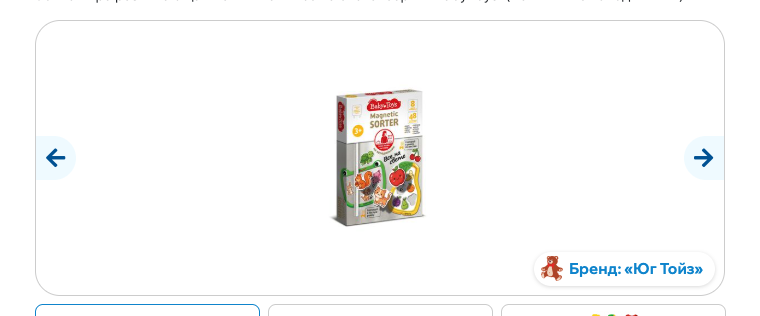
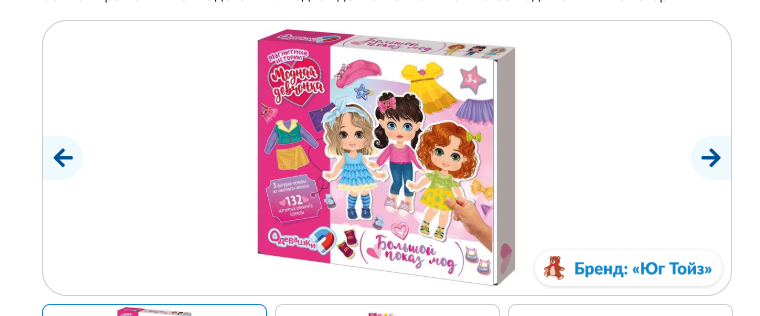
ЮгТойз: плашка «Бренд: Юг Тойз» картинкой 1:1 из макета, исправления после проверки
- плашка = вырез из макета (шрифт Lato 2 на сайте не подключён), aria-label для скринридеров
- карточка: плашка вне слайдера, в правом нижнем углу рамки (1440/900/375)
- список: без z-index; проверены каталог, поиск, подборки главной, избранное
- свойство переименовано в «Отметки: Бренд «Юг Тойз»» + подсказка: при одном значении Битрикс рисует галочку без подписи

diff --git a/Yugtoys/bitrix/local/templates/ugtoiz/css/app.css b/Yugtoys/bitrix/local/templates/ugtoiz/css/app.css
@@ -294,7 +294,7 @@
 	}
 }
 
-/* Отметка «Бренд: Юг Тойз» (свойство OTMETKI) — справа внизу на фото, 25.11 */
+/* Отметка «Бренд: Юг Тойз» (свойство OTMETKI) — картинка 1:1 из макета дизайнера (шрифт Lato 2 на сайте не подключён), справа внизу на фото */
 .item-catalog__image {
 	position: relative;
 }
@@ -302,34 +302,20 @@
 	position: absolute;
 	right: 6px;
 	bottom: 6px;
-	z-index: 2;
-	display: flex;
-	align-items: center;
-	gap: 0.3em;
-	padding: 0.25em 0.75em 0.25em 0.4em;
-	background: #fff;
+	width: 130px;
+	height: 25px;
+	background: url("../images/yt-brand.png") center / contain no-repeat;
 	border-radius: 999px;
 	box-shadow: 0 1px 4px rgba(0, 0, 0, 0.15);
-	color: #0f8fd3;
-	font-size: 11px;
-	font-weight: 700;
-	line-height: 1.2;
-	white-space: nowrap;
 	pointer-events: none;
-}
-.yt-brand::before {
-	content: "";
-	flex: none;
-	width: 1.6em;
-	height: 1.8em;
[1 lines of base64/hex data omitted]
 }
 /* вне слайдера: рамка .slider-for выше слайда; от .col_for рамка на 23px правее (>992) */
 .col_for > .yt-brand {
 	z-index: 4;
 	right: -9px;
 	bottom: 14px;
-	font-size: 15px;
+	width: 187px;
+	height: 36px;
 }
 @media (max-width: 992px) {
 	.col_for > .yt-brand {
@@ -339,11 +325,13 @@
 }
 @media (max-width: 768px) {
 	.col_for > .yt-brand {
-		font-size: 13px;
+		width: 166px;
+		height: 32px;
 	}
 	.item-catalog .yt-brand {
 		right: 2px;
 		bottom: 2px;
-		font-size: 10px;
+		width: 120px;
+		height: 23px;
 	}
 }

diff --git a/Yugtoys/bitrix/local/templates/ugtoiz/components/bitrix/catalog.item/bootstrap_v4/card/template.php b/Yugtoys/bitrix/local/templates/ugtoiz/components/bitrix/catalog.item/bootstrap_v4/card/template.php
@@ -55,7 +55,7 @@ use \Bitrix\Main\Localization\Loc;
 <div class="btn-like js-followers-btn <?=(is_followers($item['ID']) ? 'active' : '')?>" product_id="<?=$item['ID']?>"></div>
 <a href="<?=$item['DETAIL_PAGE_URL']?>" class="item-catalog__image">
 	<img alt="<?=htmlspecialchars($productTitle)?>" src="<?=$item['PREVIEW_PICTURE']['SRC']?>">
-	<? if(in_array('yugtoys', (array)($item['PROPERTIES']['OTMETKI']['VALUE_XML_ID'] ?? []), true)){ ?><span class="yt-brand">Бренд: «Юг Тойз»</span><? } ?>
+	<? if(in_array('yugtoys', (array)($item['PROPERTIES']['OTMETKI']['VALUE_XML_ID'] ?? []), true)){ ?><span class="yt-brand" role="img" aria-label="Бренд: «Юг Тойз»" title="Бренд: «Юг Тойз»"></span><? } ?>
 </a>
 <div class="articul-catalog">Артикул: <?=$item['PROPERTIES']['ARTNUMBER']['VALUE']?></div>
 <a href="<?=$item['DETAIL_PAGE_URL']?>" class="title-catalog"><?=$productTitle?></a>

diff --git a/Yugtoys/bitrix/local/templates/ugtoiz/components/bitrix/catalog.element/bootstrap_v4/template.php b/Yugtoys/bitrix/local/templates/ugtoiz/components/bitrix/catalog.element/bootstrap_v4/template.php
@@ -297,7 +297,7 @@ if ($ldPrice !== null && $ldPrice > 0) {
 					}
 				?>
 				</ul>
-				<? if($ytBrand){ ?><span class="yt-brand">Бренд: «Юг Тойз»</span><? } ?>
+				<? if($ytBrand){ ?><span class="yt-brand" role="img" aria-label="Бренд: «Юг Тойз»" title="Бренд: «Юг Тойз»"></span><? } ?>
 			</div>
 			<div class="col-lg-7">
 				<div class="card-info">
